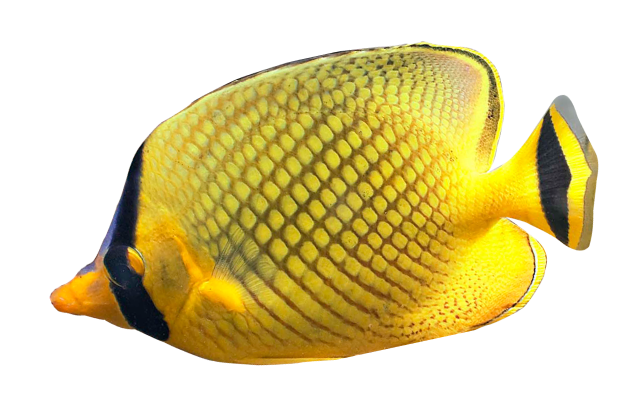
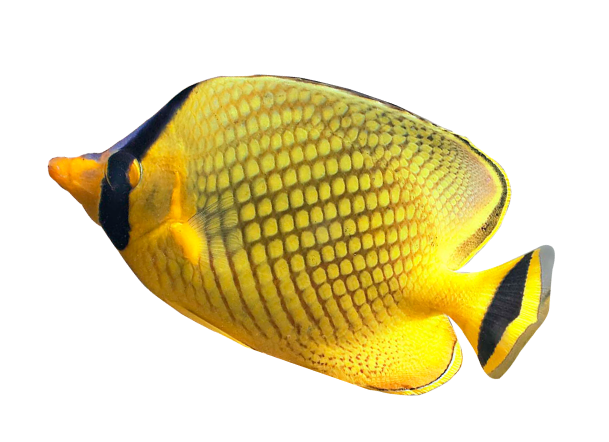
people, team, contact sections

diff --git a/src/@lekoarts/gatsby-theme-cara/components/mission.tsx b/src/@lekoarts/gatsby-theme-cara/components/mission.tsx
@@ -22,23 +22,6 @@ const Mission = () => (
         bg="#ffffff"
         sx={{ height: `100%`, width: `100%`, }}
         />
-    <Content 
-        sx={{ justifyContent: `flex-start`, minHeight: [`20vh`, `20vh`], }}
-    
-    >
-      <Inner>
-        <div
-          sx={{
-            variant: `headings.smaller`,
-            zIndex: "99",
-            textAlign: `center`,
-            mt: [`4rem`],
-          }}
-        >
-          <MissionMDX/>
-        </div>
-      </Inner>
-    </Content>
       <div 
         sx={{
         display: `grid`,
@@ -48,9 +31,30 @@ const Mission = () => (
         mt: `-50px`, 
         }}
       >
-        <img width="70%" height="auto" src="/indonesia_warren@2x.png"  alt="collage of sunscreen on coral crossed out" style={{ zIndex: "-99"}} />
-        <img width="80%" height="auto" src="/join-the-movement@2x.png"  alt="collage of sunscreen on coral crossed out" style={{ alignSelf: "flex-end", justifySelf: "flex-end", zIndex: "-99"}} />
+        <img width="50%" height="auto" src="/indonesia_warren@2x.png"  alt="collage of sunscreen on coral crossed out" style={{ zIndex: "-99", maxWidth: '340px' }} />
+        <img width="60%" height="auto" src="/join-the-movement@2x.png"  alt="collage of sunscreen on coral crossed out" style={{ alignSelf: "flex-end", justifySelf: "flex-end", zIndex: "-99", maxWidth: '440px' }} />
       </div>
+    <Content
+        sx={{ justifyContent: `flex-start`, minHeight: [`25vh`, `25vh`], mb: `100px` }}
+    >
+      <Inner>
+        <div
+          sx={{
+            variant: `headings.smaller`,
+            zIndex: "99",
+            textAlign: `center`,
+            mb: [`4rem`],
+          }}
+        >
+          <MissionMDX/>
+        </div>
+      </Inner>
+    </Content>
+
+        <Divider
+        bg="#ffffff"
+        sx={{ position: `initial`, justifySelf: `flex-end`, height: `100px`, width: `100%`, clipPath: `polygon(0 0, 100% 100%, 100% 100%)` }}
+        />
   </div>
 )
 

diff --git a/src/@lekoarts/gatsby-theme-cara/components/team.tsx b/src/@lekoarts/gatsby-theme-cara/components/team.tsx
@@ -6,10 +6,10 @@ import Content from "../elements/content"
 import Svg from "./svg"
 import { UpDown, UpDownWide } from "../styles/animations"
 // @ts-ignore
-import CommunityMDX from "../sections/community"
+import TeamMDX from "../sections/team"
 import { withAssetPrefix } from "gatsby"
 
-const MapProjects = () => (
+const Team = () => (
   <div style={{
     display: `flex`,
     flexDirection: `column`,
@@ -20,25 +20,17 @@ const MapProjects = () => (
   >
         <Divider
         bg="#ffffff"
-        sx={{ height: `100%`, width: `100%`, clipPath: `polygon(0 100px, 100% 0, 100% 100%, 0 100%)` }}
+        sx={{ height: `100%`, width: `100%`, clipPath: `polygon(0 0, 100% 100px, 100% 100%, 0 100%)` }}
         />
     <Content sx= {{ minHeight: `65vh`, mt: [`200px`] }}>
         <UpDown>
         </UpDown>
         <UpDownWide>
         </UpDownWide>
-        <img width="55%" height="auto" src="/people-bubbles@2x.png"  alt="divers working on frame" style={{position: "absolute", left: "0%", top: "84%", maxWidth: "600px"}} />
       <Inner>
-          <CommunityMDX />
-            <button
-                sx={{ variant: `buttons.toggle`, fontSize: `[ 2, 2, 3, 3, 3, 4]`, fontWeight: `semibold`, display: `block`, mx: `auto`, mt: 3 }}
-                onClick={null}
-                type="button"
-                aria-label="Toggle dark mode"
-            >
-                Apply for early access
-            </button>
-            <p sx={{ variant: `p.microCopy.p`}}>Get early access and help shape the community.</p>
+          <TeamMDX />
+          <img width="350" height="auto" src="/people-bubbles@2x.png"  alt="divers working on frame" style={{}} />
+
       </Inner>
     </Content>
         <Divider
@@ -48,4 +40,4 @@ const MapProjects = () => (
   </div>
 )
 
-export default MapProjects
+export default Team

diff --git a/src/@lekoarts/gatsby-theme-cara/components/projects.tsx b/src/@lekoarts/gatsby-theme-cara/components/projects.tsx
@@ -16,13 +16,16 @@ const Projects = () => (
     flexDirection: `column`,
     alignItems: `stretch`,
     position: `relative`,
+    marginBottom: `-1px`,
     }}
   >
         <Divider
         bg="#ffffff"
         sx={{ height: `100%`, width: `100%`, clipPath: `polygon(0 0, 100% 0%, 100% 100%, 0 100%)` }}
         />
-    <Content >
+    <Content
+        sx={{ justifyContent: `flex-start`, minHeight: [`25vh`, `25vh`], }}
+    >
       <Inner>
           <ProjectsIntroMDX />
             <button
@@ -34,7 +37,7 @@ const Projects = () => (
                 Apply for early access
             </button>
             <div>
-                <img width="40%" height="auto" src="/parrot-fish@2x.png"  alt="collage of sunscreen on coral crossed out" style={{ maxWidth: "400px", zIndex: "-99", position: "relative", left: "-10%", top: "14%", margin: "30px 0 -85px"}} />
+                <img width="40%" height="auto" src="/parrot-fish@2x.png"  alt="parrot fish cutout" style={{ maxWidth: "380px", zIndex: "-99", position: "relative", left: "-20%", top: "14%", margin: "30px 0 -10%"}} />
                 <div
                     sx={{
                         bg: "#ffffff",
@@ -44,18 +47,13 @@ const Projects = () => (
                         boxShadow: `lg`,
                     }}
                 >
-                    <h3>Featured project</h3>
+                    <h3>Featured projects</h3>
                     <FeaturedProject />
                 </div>
             </div>
             <p sx={{ textAlign: `center` }}>Get your project featured</p>
       </Inner>
     </Content>
-
-        <Divider
-        bg="#ffffff"
-        sx={{ position: `initial`, justifySelf: `flex-end`, height: `100px`, width: `100%`, clipPath: `polygon(0 0, 100% 100%, 100% 100%)` }}
-        />
   </div>
 )
 

diff --git a/src/@lekoarts/gatsby-theme-cara/components/people.tsx b/src/@lekoarts/gatsby-theme-cara/components/people.tsx
@@ -1,0 +1,48 @@
+/** @jsx jsx */
+import { jsx } from "theme-ui"
+import * as React from "react"
+import Divider from "../elements/divider"
+import Inner from "../elements/inner"
+import Content from "../elements/content"
+import Svg from "./svg"
+import { UpDown, UpDownWide } from "../styles/animations"
+// @ts-ignore
+import SupportersMDX from "../sections/supporters"
+import AdvisorsMDX from "../sections/advisors"
+
+const People = () => (
+  <div style={{
+    display: `flex`,
+    flexDirection: `column`,
+    alignItems: `stretch`,
+    position: `relative`,
+    marginBottom: `-1px`,
+    }}
+    sx={{ mt: [`-100px`] }}
+  >
+    <Divider
+    bg="icon_yellow"
+    sx={{ height: `100%`, width: `100%`, clipPath: `polygon(0 100px, 100% 0, 100% 100%, 0 100%)` }}
+    />
+    <Divider >
+      <UpDown>
+      </UpDown>
+      <UpDownWide>
+      </UpDownWide>
+      <Svg icon="hexa" width={8} color="icon_darkest" left="80%" top="70%" />
+    </Divider>
+    <Content sx={{ minHeight: "70vh", pt: [`100px`, `200px`, `300px`, `300px`]}}>
+      <Inner>
+        <SupportersMDX />
+        <AdvisorsMDX />
+      </Inner>
+    </Content>
+        <img width="80%" height="auto" src="/no-lotion.png"  alt="collage of sunscreen on coral crossed out" style={{position: "absolute", right: "0%", top: "24%", maxWidth: "320px" }} />
+        <Divider
+        bg="icon_yellow"
+        sx={{ position: `initial`, justifySelf: `flex-end`, height: `100px`, width: `100%`, clipPath: `polygon(0 100%, 100% 0%, 100% 100%)` }}
+        />
+  </div>
+)
+
+export default People

diff --git a/src/@lekoarts/gatsby-theme-cara/components/contact.tsx b/src/@lekoarts/gatsby-theme-cara/components/contact.tsx
@@ -36,18 +36,11 @@ const Contact = () => (
     </Divider>
     <Divider sx={{overflow: `hidden`}} >
       <UpDown>
-        <Svg icon="upDown" stroke hiddenMobile width={8} color="icon_darkest" left="70%" top="20%" />
-        <Svg icon="triangle" width={8} color="icon_darkest" left="25%" top="5%" />
+        <img width="30%" height="auto" src="/angel-fish@2x.png"  alt="angel fish cutout" style={{position: "absolute", left: "0%", top: "4%", maxWidth: "280px" }} />
       </UpDown>
       <UpDownWide>
-        <Svg icon="triangle" width={12} color="icon_brightest" left="95%" top="50%" />
-        <Svg icon="circle" width={6} color="icon_brightest" left="85%" top="15%" />
-        <Svg icon="upDown" stroke hiddenMobile width={8} color="icon_darkest" left="45%" top="10%" />
+        <img width="80%" height="auto" src="/lips@2x.png"  alt="lips cutout" style={{position: "absolute", right: "0%", top: "60%", maxWidth: "320px" }} />
       </UpDownWide>
-      <Svg icon="circle" width={6} color="icon_brightest" left="4%" top="20%" />
-      <Svg icon="circle" width={12} color="icon_darkest" left="70%" top="60%" />
-      <Svg icon="box" width={12} color="icon_darkest" left="20%" top="30%" />
-      <Svg icon="hexa" width={8} color="icon_darkest" left="80%" top="70%" />
     </Divider>
     <Content 
           sx={{

diff --git a/src/@lekoarts/gatsby-theme-cara/components/map-projects.tsx b/src/@lekoarts/gatsby-theme-cara/components/map-projects.tsx
@@ -22,11 +22,10 @@ const MapProjects = () => (
     bg="icon_yellow"
     sx={{ height: `100%`, width: `100%`, clipPath: `polygon(0 0, 100% 100px, 100% 100%, 0 100%)` }}
     />
-    <Content sx= {{ minHeight: "70vh", mt: [`4rem`] }}>
-        <img width="60%" height="auto" src="/platform-project@2x.png" alt="fish floating in header" style={{position: "absolute", left: "10%", top: "0%", maxWidth: "700px" }} />
+    <Content sx={{ minHeight: "70vh", mt: [`100px`, `200px`, `300px`, `300px`] }}>
+        <img width="60%" height="auto" src="/platform-project@2x.png" alt="coral restoration underwater platform" style={{marginTop: '-70px', position: "absolute", left: "10%", top: "0%", maxWidth: "700px" }} />
         <UpDownWide>
-            <img width="450" height="auto" src="/no-lotion.png"  alt="collage of sunscreen on coral crossed out" style={{position: "absolute", right: "0%", top: "54%"}} />
-        </UpDownWide>
+            <img width="350" height="auto" src="/shoal-collage@2x.png"  alt="collage of shoal of fish" style={{position: "absolute", right: "0%", top: "54%"}} />        </UpDownWide>
       <Inner>
           <MapProjectsMDX />
             <button

diff --git a/src/@lekoarts/gatsby-theme-cara/components/hero.tsx b/src/@lekoarts/gatsby-theme-cara/components/hero.tsx
@@ -12,10 +12,10 @@ const Hero = () => (
   <div>
     <Content sx={{ minHeight: `90vh`, textAlign: `center` }} >
       <UpDownWide>
-        <img width="30%" height="auto" src="/nudibranch-cutout@2x.png" alt="fish floating in header" style={{position: "absolute", left: "-5%", top: "20%", maxWidth: "200px" }} />
+        <img width="20%" height="auto" src="/nudibranch-cutout@2x.png" alt="nudibranch cutout" style={{position: "absolute", left: "0%", top: "6%", maxWidth: "180px" }} />
       </UpDownWide>
       <UpDown>
-        <img width="35%" height="auto" src="/fish@2x.png" alt="fish floating in header" style={{position: "absolute", left: "60%", top: "70%", maxWidth: "400px" }} />
+        <img width="35%" height="auto" src="/fish@2x.png" alt="fish floating in header" style={{position: "absolute", left: "65%", top: "55%", maxWidth: "350px" }} />
       </UpDown>
       <Inner sx={{ variant: `texts.bigger`, textAlign: `center` }}>
         <Intro />

diff --git a/src/@lekoarts/gatsby-theme-cara/templates/cara.tsx b/src/@lekoarts/gatsby-theme-cara/templates/cara.tsx
@@ -6,18 +6,20 @@ import Mission from "../components/mission"
 import Projects from "../components/projects"
 import MapProjects from "../components/map-projects"
 import Community from "../components/community"
-import About from "../components/about"
+import People from "../components/people"
+import Team from "../components/team"
 import Contact from "../components/contact"
 
 const Cara = () => (
   <Layout>
     <div  >
       <Hero  />
-      <Mission />
       <Projects />
+      <Mission />
       <MapProjects />
       <Community />
-      <About />
+      <People />
+      <Team />
       <Contact />
     </div>
   </Layout>

diff --git a/src/@lekoarts/gatsby-theme-cara/components/project-card.tsx b/src/@lekoarts/gatsby-theme-cara/components/project-card.tsx
@@ -42,14 +42,14 @@ const ProjectCard = ({ image, imageAlt, link, title, children, bg }: ProjectCard
     <div
       sx={{
         pb: [2, 3],
-        fontSize: [1, 2, 2, 3, 4, 4],
+        fontSize: [1, 2, 2, 2, 2, 2],
         fontWeight: `bold`,
         lineHeight: 1,
       }}
     >
       {title}
     </div>
-    <div sx={{ opacity: 0.85, fontSize: [0, 0, 0, 1, 1, 2], }}>{children}</div>
+    <div sx={{ opacity: 0.85, fontSize: [0, 0, 0, 1, 1, 1], }}>{children}</div>
   </a>
 )
 

diff --git a/src/@lekoarts/gatsby-theme-cara/components/emoji.tsx b/src/@lekoarts/gatsby-theme-cara/components/emoji.tsx
@@ -1,0 +1,12 @@
+import React from 'react';
+const Emoji = props => (
+    <span
+        className="emoji"
+        role="img"
+        aria-label={props.label ? props.label : ""}
+        aria-hidden={props.label ? "false" : "true"}
+    >
+        {props.symbol}
+    </span>
+);
+export default Emoji;
